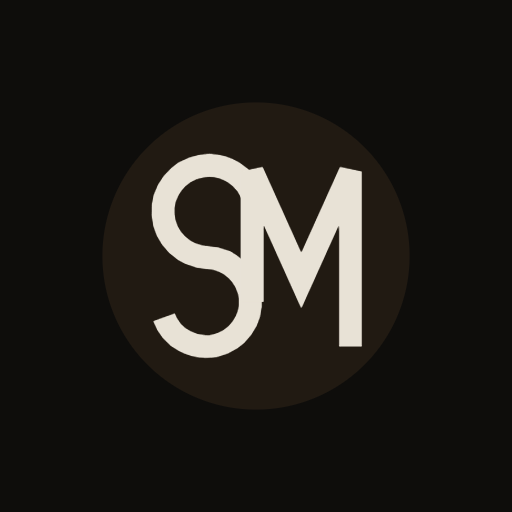
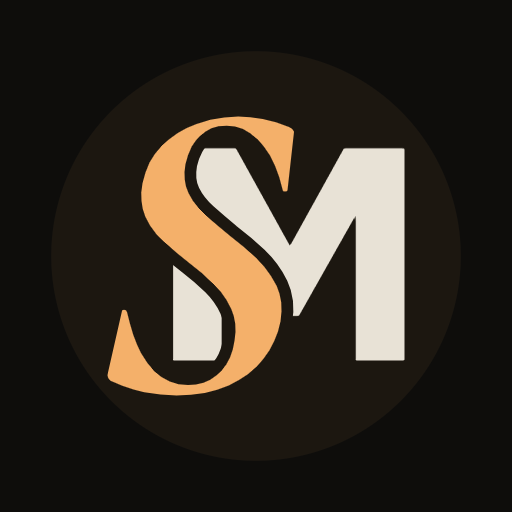
Монограмма SM в стиле Awwwards; надпись в шапке снова текстом
S — курсив Cormorant в янтаре, M — гротеск Onest, S надета на штангу M с ровным зазором.
Обновлены знак, фавиконки, аватар и OG-обложка; при наведении цвета букв меняются местами.
Надпись «Stanislav Maksimov» из шапки убрана — снова текст «Станислав Максимов».

Changed region(s): [[0.1875, 0.2188, 0.8125, 0.7812]]

diff --git a/index.html b/index.html
@@ -85,11 +85,10 @@
     .hdr.is-solid{background:rgba(14,13,11,.94);border-bottom:1px solid var(--line)}
     .hdr__row{display:flex;align-items:center;justify-content:space-between;gap:24px}
     .logo{display:flex;align-items:center;gap:12px;font-weight:600;letter-spacing:-.01em;white-space:nowrap}
-    .logo__mark{width:36px;height:36px;flex:none;color:var(--ink);transition:color .3s}
-    .logo:hover .logo__mark{color:var(--acc)}
-    .logo__word{height:19px;width:auto;flex:none;color:var(--ink);display:block}
-    .logo__dot{fill:var(--acc)}
-    @media (max-width:400px){.logo{gap:10px}.logo__mark{width:32px;height:32px}.logo__word{height:15px}.burger{padding:0 14px}.burger>span{display:none}}
+    .logo__mark{width:40px;height:40px;flex:none;color:var(--ink);transition:color .45s var(--ease)}
+    .logo__mark path{transition:fill .45s var(--ease)}
+    .logo:hover .logo__mark{color:var(--acc);--sm-s:var(--ink)}
+    @media (max-width:400px){.logo{font-size:15px;gap:10px}.logo__mark{width:32px;height:32px}.burger{padding:0 14px}.burger>span{display:none}}
     .nav{display:flex;gap:30px}
     .nav a{position:relative;font-size:15px;color:var(--mute);transition:color .3s}
     .nav a::after{content:"";position:absolute;left:0;right:0;bottom:-4px;height:1px;background:var(--acc);transform:scaleX(0);transform-origin:right;transition:transform .5s var(--ease)}
@@ -446,8 +445,8 @@
   <header class="hdr" id="hdr">
     <div class="wrap hdr__row">
       <a href="#top" class="logo" aria-label="Станислав Максимов — на главную">
-        <svg class="logo__mark" viewBox="0 0 100 100" aria-hidden="true"><g fill="none" stroke="currentColor" stroke-width="7.5" stroke-linecap="butt" stroke-linejoin="miter" stroke-miterlimit="4" transform="translate(1.25 1)"><path d="M47.9 30.4A15 15 0 1 0 33 49.5A14.5 14.5 0 1 1 18.8 68.9"/><path d="M47.5 64V21.5L63.5 57L79.5 21.5V78.5"/></g></svg>
-        <svg class="logo__word" viewBox="4.5 -90.44 863.5 92.18" aria-hidden="true"><path fill="currentColor" d="M34.20 0.80L34.20 0.80Q26.80 0.80 20.45-1.50Q14.10-3.80 9.85-8.80Q5.60-13.80 4.50-21.70L4.50-21.70L19.10-21.70Q20-18.30 22.40-16.25Q24.80-14.20 28.15-13.30Q31.50-12.40 35.20-12.40L35.20-12.40Q38-12.40 40.70-13.10Q43.40-13.80 45.15-15.50Q46.90-17.20 46.90-20.10L46.90-20.10Q46.90-22.30 45.95-23.70Q45-25.10 43.25-25.95Q41.50-26.80 39-27.50L39-27.50Q36.90-28.10 34.65-28.50Q32.40-28.90 30.25-29.50Q28.10-30.10 26.10-30.90L26.10-30.90Q22.30-31.90 18.80-33.35Q15.30-34.80 12.60-37.05Q9.90-39.30 8.35-42.70Q6.80-46.10 6.80-50.90L6.80-50.90Q6.80-56.10 8.55-59.70Q10.30-63.30 13.25-65.65Q16.20-68 19.85-69.30Q23.50-70.60 27.20-71.10Q30.90-71.60 34.20-71.60L34.20-71.60Q41.10-71.60 46.60-69.20Q52.10-66.80 55.60-62Q59.10-57.20 59.60-49.90L59.60-49.90L45.70-49.90Q45.30-52.90 43.50-54.80Q41.70-56.70 38.95-57.60Q36.20-58.50 32.80-58.50L32.80-58.50Q30.60-58.50 28.50-58.10Q26.40-57.70 24.75-56.85Q23.10-56 22.15-54.60Q21.20-53.20 21.20-51.20L21.20-51.20Q21.20-49.20 22.30-47.75Q23.40-46.30 25.55-45.25Q27.70-44.20 30.60-43.30L30.60-43.30Q33.60-42.30 36.90-41.70Q40.20-41.10 43.20-40.10L43.20-40.10Q47-39.10 50.30-37.75Q53.60-36.40 56.10-34.35Q58.60-32.30 60-29.15Q61.40-26 61.40-21.40L61.40-21.40Q61.40-15.30 59.15-11.05Q56.90-6.80 53.05-4.20Q49.20-1.60 44.30-0.40Q39.40 0.80 34.20 0.80ZM95.40 0L89.50 0Q82.90 0 78.70-1.60Q74.50-3.20 72.45-7.05Q70.40-10.90 70.40-17.60L70.40-17.60L70.40-40.20L62.60-40.20L62.60-52.70L70.40-52.70L70.40-66.80L84.40-66.80L84.40-52.70L95.90-52.70L95.90-40.20L84.40-40.20L84.40-19.60Q84.40-16.30 85.60-14.40Q86.80-12.50 91-12.50L91-12.50L95.40-12.50L95.40 0ZM114.80 0.70L114.80 0.70Q111.20 0.70 107.85-0.25Q104.50-1.20 101.90-3.20Q99.30-5.20 97.80-8.20Q96.30-11.20 96.30-15.20L96.30-15.20Q96.30-20.60 98.50-23.85Q100.70-27.10 104.40-28.80Q108.10-30.50 112.95-31.10Q117.80-31.70 123-31.70L123-31.70L130.60-31.70Q130.60-34.60 129.55-36.85Q128.50-39.10 126.40-40.35Q124.30-41.60 121-41.60L121-41.60Q118.90-41.60 117-41.05Q115.10-40.50 113.80-39.50Q112.50-38.50 112.10-36.90L112.10-36.90L97.90-36.90Q98.50-41.30 100.70-44.45Q102.90-47.60 106.15-49.60Q109.40-51.60 113.35-52.55Q117.30-53.50 121.50-53.50L121.50-53.50Q129.20-53.50 134.15-50.60Q139.10-47.70 141.55-42.10Q144-36.50 144-28.40L144-28.40L144 0L131.40 0L131.20-6.80Q128.70-3.30 125.55-1.70Q122.40-0.10 119.50 0.30Q116.60 0.70 114.80 0.70ZM118-10.40L118-10.40Q121.50-10.40 124.40-11.80Q127.30-13.20 129-15.60Q130.70-18 130.70-21L130.70-21L130.70-22.30L119-22.30Q117.50-22.30 115.95-22.05Q114.40-21.80 113.10-21.20Q111.80-20.60 111-19.50Q110.20-18.40 110.20-16.40L110.20-16.40Q110.20-14.40 111.25-13.05Q112.30-11.70 114.10-11.05Q115.90-10.40 118-10.40ZM163.90 0L149.90 0L149.90-52.70L163-52.70L163.70-46.60Q165.90-49.30 168.75-50.85Q171.60-52.40 174.55-53Q177.50-53.60 179.90-53.60L179.90-53.60Q187.50-53.60 191.75-50.30Q196-47 197.85-41.45Q199.70-35.90 199.70-29.10L199.70-29.10L199.70 0L185.70 0L185.70-27.30Q185.70-29.70 185.30-32.10Q184.90-34.50 183.85-36.50Q182.80-38.50 180.90-39.70Q179-40.90 175.90-40.90L175.90-40.90Q171.90-40.90 169.20-38.90Q166.50-36.90 165.20-33.50Q163.90-30.10 163.90-26L163.90-26L163.90 0ZM219.40 0L205.40 0L205.40-52.70L219.40-52.70L219.40 0ZM212.40-58L212.40-58Q208.50-58 206.10-60.35Q203.70-62.70 203.70-66.40L203.70-66.40Q203.70-70.30 206.20-72.70Q208.70-75.10 212.50-75.10L212.50-75.10Q216-75.10 218.55-72.75Q221.10-70.40 221.10-66.50L221.10-66.50Q221.10-62.70 218.65-60.35Q216.20-58 212.40-58ZM246.10 0.70L246.10 0.70Q242.40 0.70 238.50-0.10Q234.60-0.90 231.30-2.85Q228-4.80 225.70-8.15Q223.40-11.50 222.70-16.50L222.70-16.50L236.90-16.50Q237.50-14.70 239.05-13.40Q240.60-12.10 242.65-11.50Q244.70-10.90 246.80-10.90L246.80-10.90Q248.20-10.90 249.60-11.10Q251-11.30 252.20-11.90Q253.40-12.50 254.10-13.45Q254.80-14.40 254.80-15.90L254.80-15.90Q254.80-17.40 253.95-18.30Q253.10-19.20 251.60-19.75Q250.10-20.30 248-20.70L248-20.70Q245.90-21.20 243.60-21.60Q241.30-22 239.10-22.50L239.10-22.50Q235.30-23.50 231.90-25.15Q228.50-26.80 226.35-29.80Q224.20-32.80 224.20-37.70L224.20-37.70Q224.20-42 226.05-45.05Q227.90-48.10 231-50Q234.10-51.90 237.90-52.75Q241.70-53.60 245.70-53.60L245.70-53.60Q251.10-53.60 255.70-51.85Q260.30-50.10 263.30-46.45Q266.30-42.80 267-37L267-37L253.60-37Q253.20-39.20 250.90-40.60Q248.60-42 245.20-42L245.20-42Q244-42 242.65-41.75Q241.30-41.50 240.20-41Q239.10-40.50 238.40-39.65Q237.70-38.80 237.70-37.40L237.70-37.40Q237.70-36.30 238.35-35.40Q239-34.50 240.30-33.85Q241.60-33.20 243.40-32.80L243.40-32.80Q246.60-32.10 250.10-31.45Q253.60-30.80 256.30-30L256.30-30Q259.60-29.20 262.35-27.65Q265.10-26.10 266.85-23.35Q268.60-20.60 268.60-16.20L268.60-16.20Q268.60-11.20 266.60-7.95Q264.60-4.70 261.25-2.80Q257.90-0.90 253.95-0.10Q250 0.70 246.10 0.70ZM285.80 0L271.80 0L271.80-70.80L285.80-70.80L285.80 0ZM308.60 0.70L308.60 0.70Q305.00 0.70 301.65-0.25Q298.30-1.20 295.70-3.20Q293.10-5.20 291.60-8.20Q290.10-11.20 290.10-15.20L290.10-15.20Q290.10-20.60 292.30-23.85Q294.50-27.10 298.20-28.80Q301.90-30.50 306.75-31.10Q311.60-31.70 316.80-31.70L316.80-31.70L324.40-31.70Q324.40-34.60 323.35-36.85Q322.30-39.10 320.20-40.35Q318.10-41.60 314.80-41.60L314.80-41.60Q312.70-41.60 310.80-41.05Q308.90-40.50 307.60-39.50Q306.30-38.50 305.90-36.90L305.90-36.90L291.70-36.90Q292.30-41.30 294.50-44.45Q296.70-47.60 299.95-49.60Q303.20-51.60 307.15-52.55Q311.10-53.50 315.30-53.50L315.30-53.50Q323.00-53.50 327.95-50.60Q332.90-47.70 335.35-42.10Q337.80-36.50 337.80-28.40L337.80-28.40L337.80 0L325.20 0L325.00-6.80Q322.50-3.30 319.35-1.70Q316.20-0.10 313.30 0.30Q310.40 0.70 308.60 0.70ZM311.80-10.40L311.80-10.40Q315.30-10.40 318.20-11.80Q321.10-13.20 322.80-15.60Q324.50-18 324.50-21L324.50-21L324.50-22.30L312.80-22.30Q311.30-22.30 309.75-22.05Q308.20-21.80 306.90-21.20Q305.60-20.60 304.80-19.50Q304.00-18.40 304.00-16.40L304.00-16.40Q304.00-14.40 305.05-13.05Q306.10-11.70 307.90-11.05Q309.70-10.40 311.80-10.40ZM375.50 0L356.70 0L338.20-52.70L353.50-52.70L366.10-11.40L378.60-52.70L394.00-52.70L375.50 0Z"/><path fill="currentColor" d="M466.44 0L466.44 0Q466.07 0 466.07-0.75Q466.07-1.50 466.44-1.50L466.44-1.50Q469.93-1.50 471.68-2.12Q473.42-2.74 474.29-4.61Q475.17-6.48 475.67-10.09L475.67-10.09L484.89-72.27L487.88-76.38L450.74-0.87Q450.49-0.37 449.81-0.44Q449.12-0.50 448.87-1.00L448.87-1.00L434.92-67.54Q434.05-71.52 432.18-73.39Q430.31-75.26 428.19-75.82Q426.07-76.38 424.20-76.38L424.20-76.38Q423.83-76.38 423.83-77.13Q423.83-77.88 424.20-77.88L424.20-77.88Q425.70-77.88 427.69-77.76Q429.68-77.63 432.18-77.63L432.18-77.63Q435.67-77.63 438.47-77.76Q441.27-77.88 442.64-77.88L442.64-77.88Q444.01-77.88 444.82-76.63Q445.63-75.39 446.51-71.40L446.51-71.40L458.10-16.45L450.00-4.86L484.01-74.76Q485.51-77.88 488.62-77.88L488.62-77.88Q489.75-77.88 492.24-77.76Q494.73-77.63 496.72-77.63L496.72-77.63Q499.47-77.63 501.27-77.76Q503.08-77.88 504.95-77.88L504.95-77.88Q505.20-77.88 505.20-77.13Q505.20-76.38 504.95-76.38L504.95-76.38Q501.21-76.38 499.22-74.83Q497.22-73.27 496.47-68.04L496.47-68.04L487.88-10.09Q487.13-4.74 488.31-3.12Q489.50-1.50 494.11-1.50L494.11-1.50Q494.48-1.50 494.48-0.75Q494.48 0 494.11 0L494.11 0Q491.37 0 487.81-0.12Q484.26-0.25 480.28-0.25L480.28-0.25Q476.29-0.25 472.80-0.12Q469.31 0 466.44 0ZM410.62 0L410.62 0Q410.25 0 410.25-0.75Q410.25-1.50 410.62-1.50L410.62-1.50Q414.86-1.50 418.10-5.36Q421.34-9.22 422.58-15.83L422.58-15.83L433.67-75.01L436.66-74.76L426.07-16.20Q424.83-9.35 426.57-5.42Q428.31-1.50 432.55-1.50L432.55-1.50Q432.92-1.50 432.92-0.75Q432.92 0 432.55 0L432.55 0Q430.31 0 427.50-0.12Q424.70-0.25 421.34-0.25L421.34-0.25Q418.47-0.25 415.79-0.12Q413.11 0 410.62 0ZM509.31 1.62L509.31 1.62Q505.07 1.62 502.64-1.43Q500.21-4.49 501.21-11.34L501.21-11.34Q502.08-17.69 505.51-24.36Q508.94-31.03 513.98-36.82Q519.03-42.62 524.70-46.17Q530.37-49.72 535.60-49.72L535.60-49.72Q538.09-49.72 540.71-48.78Q543.33-47.85 545.26-45.79Q547.19-43.74 547.44-40.37L547.44-40.37L539.96-44.49Q542.08-44.73 544.39-46.48Q546.69-48.22 548.31-50.72L548.31-50.72Q548.56-51.09 549.25-50.84Q549.93-50.59 549.81-50.34L549.81-50.34L542.58-11.09Q541.46-5.23 543.95-5.23L543.95-5.23Q545.20-5.23 546.94-6.42Q548.69-7.60 550.68-9.59L550.68-9.59Q551.05-9.97 551.55-9.47Q552.05-8.97 551.68-8.60L551.68-8.60Q547.81-3.99 544.39-1.43Q540.96 1.12 537.72 1.12L537.72 1.12Q533.73 1.12 532.30-1.81Q530.87-4.74 531.86-11.09L531.86-11.09L534.98-28.54L537.60-30.65Q534.60-20.44 529.87-13.21Q525.13-5.98 519.78-2.18Q514.42 1.62 509.31 1.62ZM517.28-7.48L517.28-7.48Q520.27-7.48 523.27-9.84Q526.26-12.21 528.81-15.95Q531.37-19.69 533.17-23.86Q534.98-28.04 535.60-31.53L535.60-31.53Q536.60-37.13 534.85-40.37Q533.11-43.61 529.37-43.61L529.37-43.61Q525.88-43.61 522.52-40.75Q519.15-37.88 516.54-32.90Q513.92-27.91 512.80-21.43L512.80-21.43Q511.55-13.58 513.05-10.53Q514.54-7.48 517.28-7.48ZM559.28 1.00L559.28 1.00Q556.91 1.00 556.04 0.69Q555.17 0.37 555.17 0L555.17 0Q555.17-0.50 555.85-3.24Q556.54-5.98 557.03-9.22L557.03-9.22L568.75-73.39Q569.74-79.38 568.19-80.62Q566.63-81.87 561.52-79.38L561.52-79.38Q561.02-79.25 560.77-80.00Q560.52-80.75 561.02-80.87L561.02-80.87L580.34-90.34Q580.83-90.59 581.40-90.22Q581.96-89.84 581.83-89.34L581.83-89.34L570.49-25.54L566.26-1.50Q565.63 1.00 559.28 1.00ZM591.30 1.12L591.30 1.12Q588.06 1.12 585.63-0.69Q583.20-2.49 580.21-7.23L580.21-7.23L572.98-19.19Q571.74-21.43 570.68-21.87Q569.62-22.30 567.13-21.56L567.13-21.56L580.21-26.67L588.93-12.71Q591.55-8.47 593.30-7.29Q595.04-6.11 596.66-6.11L596.66-6.11Q597.91-6.11 599.65-6.92Q601.39-7.73 603.39-9.35L603.39-9.35Q603.89-9.84 604.39-9.28Q604.88-8.72 604.39-8.35L604.39-8.35Q596.16 1.12 591.30 1.12ZM567.13-21.56L567.13-21.56L567.13-23.80Q574.35-25.30 579.03-27.35Q583.70-29.41 586.01-32.21Q588.31-35.01 588.56-38.75L588.56-38.75Q588.81-41.37 588.00-42.87Q587.19-44.36 585.07-44.36L585.07-44.36Q580.09-44.36 576.10-39.19Q572.11-34.02 570.49-25.54L570.49-25.54L564.76-30.28Q567.75-35.76 572.30-40.12Q576.85-44.49 582.27-47.10Q587.69-49.72 593.05-49.72L593.05-49.72Q597.03-49.72 598.84-48.47Q600.65-47.23 601.15-45.48Q601.64-43.74 601.39-42.24L601.39-42.24Q600.77-38.25 596.54-34.20Q592.30-30.16 584.88-26.85Q577.47-23.55 567.13-21.56ZM614.10 1.37L614.10 1.37Q608.50 1.37 604.63-1.25Q600.77-3.86 601.27-7.60L601.27-7.60Q601.64-10.09 603.26-11.40Q604.88-12.71 606.88-12.71L606.88-12.71Q609.37-12.71 610.74-11.21Q612.11-9.72 613.23-7.79Q614.35-5.86 615.85-4.36Q617.34-2.87 620.09-2.87L620.09-2.87Q622.33-2.87 623.33-4.11Q624.32-5.36 624.70-7.85L624.70-7.85Q625.19-11.84 623.39-14.64Q621.58-17.45 618.65-19.75Q615.72-22.06 612.86-24.42Q609.99-26.79 608.37-29.72Q606.75-32.65 607.50-36.76L607.50-36.76Q608.12-39.75 610.62-42.68Q613.11-45.61 617.10-47.48Q621.08-49.34 626.07-49.34L626.07-49.34Q631.92-49.34 635.29-47.35Q638.65-45.36 638.28-41.87L638.28-41.87Q637.90-39.38 636.16-38.07Q634.42-36.76 632.67-36.76L632.67-36.76Q629.68-36.76 628.43-38.13Q627.19-39.50 626.50-41.31Q625.82-43.11 624.70-44.49Q623.57-45.86 620.71-45.86L620.71-45.86Q618.47-45.86 617.47-44.61Q616.47-43.36 616.22-41.99L616.22-41.99Q615.60-38.50 617.41-35.76Q619.21-33.02 622.20-30.72Q625.19-28.41 628.06-25.92Q630.93-23.43 632.67-20.44Q634.42-17.45 633.67-13.46L633.67-13.46Q633.17-10.34 630.55-6.85Q627.94-3.36 623.76-1.00Q619.59 1.37 614.10 1.37ZM650.74 1.12L650.74 1.12Q646.63 1.12 645.38-1.99Q644.14-5.11 645.38-11.09L645.38-11.09L650.49-37.01Q651.74-43.11 648.62-43.11L648.62-43.11Q647.38-43.11 645.57-41.87Q643.76-40.62 641.52-38.13L641.52-38.13Q641.02-37.63 640.52-38.19Q640.02-38.75 640.40-39.25L640.40-39.25Q644.88-44.61 648.50-46.91Q652.11-49.22 655.60-49.22L655.60-49.22Q659.59-49.22 660.83-46.42Q662.08-43.61 661.08-38.50L661.08-38.50L655.85-11.09Q655.23-7.60 655.85-6.42Q656.47-5.23 657.47-5.23L657.47-5.23Q658.84-5.23 660.46-6.48Q662.08-7.73 664.07-9.59L664.07-9.59Q664.57-10.09 665.07-9.59Q665.57-9.10 665.07-8.60L665.07-8.60Q661.21-3.99 657.84-1.43Q654.48 1.12 650.74 1.12ZM659.09-62.18L659.09-62.18Q655.85-62.18 653.92-64.05Q651.99-65.92 651.99-69.41L651.99-69.41Q651.99-72.40 653.92-74.27Q655.85-76.14 659.09-76.14L659.09-76.14Q662.33-76.14 664.13-74.27Q665.94-72.40 665.94-69.41L665.94-69.41Q665.94-62.18 659.09-62.18ZM734.35 1.12L734.35 1.12Q730.11 1.12 728.99-1.99Q727.87-5.11 728.87-11.09L728.87-11.09L732.61-30.90Q733.60-36.88 732.86-39.75Q732.11-42.62 729.62-42.62L729.62-42.62Q726.63-42.62 723.01-38.07Q719.40-33.52 716.03-24.42Q712.67-15.33 710.43-1.50L710.43-1.50L708.18-1.62Q710.68-16.82 714.91-27.60Q719.15-38.38 724.63-44.05Q730.11-49.72 736.10-49.72L736.10-49.72Q740.96-49.72 743.01-45.73Q745.07-41.74 743.45-33.27L743.45-33.27L739.46-11.09Q738.84-7.60 739.40-6.42Q739.96-5.23 741.08-5.23L741.08-5.23Q742.45-5.23 744.01-6.48Q745.57-7.73 747.56-9.59L747.56-9.59Q748.06-10.09 748.56-9.59Q749.06-9.10 748.56-8.60L748.56-8.60Q744.69-3.99 741.33-1.43Q737.97 1.12 734.35 1.12ZM675.79 1.00L675.79 1.00Q673.42 1.00 672.55 0.69Q671.67 0.37 671.67 0L671.67 0Q671.67-0.50 672.36-3.24Q673.04-5.98 673.54-9.22L673.54-9.22L678.65-37.01Q679.77-43.11 676.78-43.11L676.78-43.11Q675.54-43.11 673.73-41.87Q671.92-40.62 669.56-38.13L669.56-38.13Q669.18-37.63 668.68-38.19Q668.18-38.75 668.56-39.25L668.56-39.25Q673.04-44.61 676.66-46.91Q680.27-49.22 683.76-49.22L683.76-49.22Q687.75-49.22 688.99-46.42Q690.24-43.61 689.24-38.50L689.24-38.50L682.76-1.50Q682.14 1.00 675.79 1.00ZM703.45 1.00L703.45 1.00Q701.08 1.00 700.21 0.69Q699.34 0.37 699.34 0L699.34 0Q699.34-0.50 700.02-3.24Q700.71-5.98 701.21-9.22L701.21-9.22L705.32-31.15Q706.44-37.26 705.44-39.94Q704.45-42.62 701.95-42.62L701.95-42.62Q698.71-42.62 695.04-37.76Q691.36-32.90 688.12-23.74Q684.88-14.58 682.76-1.50L682.76-1.50L680.52-1.62Q682.89-16.45 687.06-27.23Q691.24-38.01 696.78-43.86Q702.33-49.72 708.56-49.72L708.56-49.72Q713.29-49.72 715.47-45.86Q717.65-41.99 716.16-33.52L716.16-33.52L710.43-1.50Q710.05 1.00 703.45 1.00ZM769.12 1.74L769.12 1.74Q762.26 1.74 758.21-1.87Q754.16-5.48 752.92-11.34Q751.67-17.20 752.92-24.05L752.92-24.05Q754.41-31.65 758.40-37.44Q762.39-43.24 768.12-46.48Q773.85-49.72 780.46-49.72L780.46-49.72Q787.43-49.72 791.55-46.29Q795.66-42.87 797.03-37.07Q798.40-31.28 796.90-24.05L796.90-24.05Q795.28-15.58 790.86-9.78Q786.44-3.99 780.71-1.12Q774.97 1.74 769.12 1.74ZM773.35-1.37L773.35-1.37Q777.34-1.37 780.27-6.04Q783.20-10.72 784.57-18.57L784.57-18.57Q785.57-24.17 785.50-29.22Q785.44-34.27 784.32-38.25Q783.20-42.24 781.20-44.49Q779.21-46.73 776.34-46.73L776.34-46.73Q772.86-46.73 769.86-42.49Q766.87-38.25 765.25-29.41L765.25-29.41Q764.26-23.80 764.38-18.69Q764.51-13.58 765.57-9.72Q766.62-5.86 768.62-3.61Q770.61-1.37 773.35-1.37ZM819.83 1.62L819.83 1.62Q815.97 1.62 812.98-0.44Q809.99-2.49 808.37-5.86Q806.75-9.22 806.87-13.21L806.87-13.21Q807.25-18.32 810.30-23.74Q813.35-29.16 816.09-35.14L816.09-35.14Q816.97-36.88 817.03-37.76Q817.09-38.63 815.72-38.63L815.72-38.63L809.74-38.63Q806.75-38.63 804.94-38.07Q803.14-37.51 802.08-36.32Q801.02-35.14 800.39-33.27L800.39-33.27Q800.14-32.77 799.40-32.90Q798.65-33.02 798.90-33.64L798.90-33.64Q800.77-39.00 802.33-42.18Q803.88-45.36 806.13-46.79Q808.37-48.22 811.98-48.22L811.98-48.22L823.57-48.22Q824.57-48.22 824.82-47.97Q825.07-47.72 824.57-46.73L824.57-46.73Q822.20-41.12 819.89-34.58Q817.59-28.04 816.97-23.55L816.97-23.55Q815.85-16.32 818.52-12.15Q821.20-7.97 826.06-7.97L826.06-7.97Q829.55-7.97 832.85-10.03Q836.16-12.09 838.65-15.89Q841.14-19.69 841.76-24.80L841.76-24.80Q842.14-27.79 841.70-29.78Q841.27-31.78 840.27-33.46Q839.27-35.14 837.65-36.88L837.65-36.88Q836.41-38.25 835.41-39.75Q834.41-41.25 834.41-43.24L834.41-43.24Q834.41-46.48 836.47-47.91Q838.52-49.34 841.27-49.34L841.27-49.34Q843.88-49.34 845.50-48.04Q847.12-46.73 847.74-43.30Q848.37-39.87 847.74-33.64L847.74-33.64Q847.00-26.54 844.32-20.12Q841.64-13.71 837.59-8.85Q833.54-3.99 828.93-1.18Q824.32 1.62 819.83 1.62Z"/><circle cx="859.45" cy="-8.55" r="8.55" class="logo__dot"/></svg>
+        <svg class="logo__mark" viewBox="0 0 100 100" aria-hidden="true"><defs><mask id="k14" maskUnits="userSpaceOnUse" x="-500" y="-500" width="1000" height="1000"><rect x="-500" y="-500" width="1000" height="1000" fill="#fff"/><path transform="translate(-16.38 8.40)" d="M23.35 1.46L23.35 1.46Q18.85 1.46 14.29 0.55Q9.73-0.36 4.74-2.68L4.74-2.68Q4.26-3.04 4.01-3.59Q3.77-4.13 4.01-4.99L4.01-4.99L7.90-22.13Q7.90-22.74 8.57-22.74Q9.24-22.74 9.36-22.13L9.36-22.13Q10.94-15.08 13.38-10.52Q15.81-5.96 19.15-3.71Q22.50-1.46 26.63-1.46L26.63-1.46Q30.16-1.46 32.89-2.98Q35.63-4.50 37.45-7.30Q39.28-10.09 39.76-13.98L39.76-13.98Q40.61-19.09 38.85-22.98Q37.09-26.87 33.87-30.04Q30.64-33.20 27.00-35.99L27.00-35.99Q23.23-38.91 19.76-42.01Q16.29-45.11 14.53-49.13Q12.77-53.14 13.74-58.49L13.74-58.49Q15.08-64.93 19.21-69.07Q23.35-73.20 29.06-75.27Q34.78-77.34 40.86-77.34L40.86-77.34Q44.14-77.34 47.79-76.67Q51.44-76 55.21-74.42L55.21-74.42Q56.91-73.57 56.54-72.35L56.54-72.35L54.72-56.54Q54.60-56.18 54.05-56.18Q53.50-56.18 53.38-56.54L53.38-56.54Q52.17-62.26 49.80-66.33Q47.42-70.41 44.32-72.60Q41.22-74.78 37.57-74.78L37.57-74.78Q33.93-74.78 31.49-73.08Q29.06-71.38 27.72-68.89Q26.39-66.39 25.90-63.96L25.90-63.96Q25.05-59.22 26.75-55.75Q28.45-52.29 31.62-49.49Q34.78-46.69 38.30-43.78L38.30-43.78Q42.32-40.74 45.96-37.27Q49.61-33.80 51.68-29.49Q53.75-25.17 52.77-19.46L52.77-19.46Q51.68-13.62 47.97-8.88Q44.26-4.13 38.12-1.34Q31.98 1.46 23.35 1.46Z" fill="#000" stroke="#000" stroke-width="4.20" stroke-linejoin="round"/></mask></defs><g transform="translate(50 50) scale(1.0961) translate(-29.47 29.54)"><path d="M19.75 0L6.02 0L6.02-60.00L23.81-60.00L39.07-32.37L54.32-60.00L71.44-60.00L71.44 0L57.63 0L57.63-41.02L41.61-12.63L36.10-12.63L19.75-41.02L19.75 0Z" fill="currentColor" mask="url(#k14)"/><path transform="translate(-16.38 8.40)" d="M23.35 1.46L23.35 1.46Q18.85 1.46 14.29 0.55Q9.73-0.36 4.74-2.68L4.74-2.68Q4.26-3.04 4.01-3.59Q3.77-4.13 4.01-4.99L4.01-4.99L7.90-22.13Q7.90-22.74 8.57-22.74Q9.24-22.74 9.36-22.13L9.36-22.13Q10.94-15.08 13.38-10.52Q15.81-5.96 19.15-3.71Q22.50-1.46 26.63-1.46L26.63-1.46Q30.16-1.46 32.89-2.98Q35.63-4.50 37.45-7.30Q39.28-10.09 39.76-13.98L39.76-13.98Q40.61-19.09 38.85-22.98Q37.09-26.87 33.87-30.04Q30.64-33.20 27.00-35.99L27.00-35.99Q23.23-38.91 19.76-42.01Q16.29-45.11 14.53-49.13Q12.77-53.14 13.74-58.49L13.74-58.49Q15.08-64.93 19.21-69.07Q23.35-73.20 29.06-75.27Q34.78-77.34 40.86-77.34L40.86-77.34Q44.14-77.34 47.79-76.67Q51.44-76 55.21-74.42L55.21-74.42Q56.91-73.57 56.54-72.35L56.54-72.35L54.72-56.54Q54.60-56.18 54.05-56.18Q53.50-56.18 53.38-56.54L53.38-56.54Q52.17-62.26 49.80-66.33Q47.42-70.41 44.32-72.60Q41.22-74.78 37.57-74.78L37.57-74.78Q33.93-74.78 31.49-73.08Q29.06-71.38 27.72-68.89Q26.39-66.39 25.90-63.96L25.90-63.96Q25.05-59.22 26.75-55.75Q28.45-52.29 31.62-49.49Q34.78-46.69 38.30-43.78L38.30-43.78Q42.32-40.74 45.96-37.27Q49.61-33.80 51.68-29.49Q53.75-25.17 52.77-19.46L52.77-19.46Q51.68-13.62 47.97-8.88Q44.26-4.13 38.12-1.34Q31.98 1.46 23.35 1.46Z" fill="var(--sm-s,#F4B06A)"/></g></svg>
+        <span>Станислав Максимов</span>
       </a>
       <nav class="nav" aria-label="Основная навигация">
         <a href="#cases">Кейсы</a>
